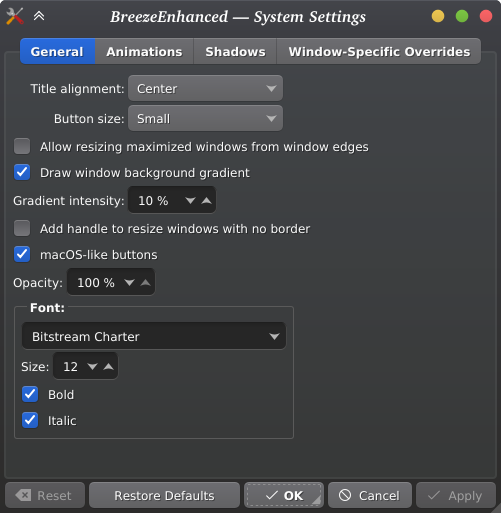
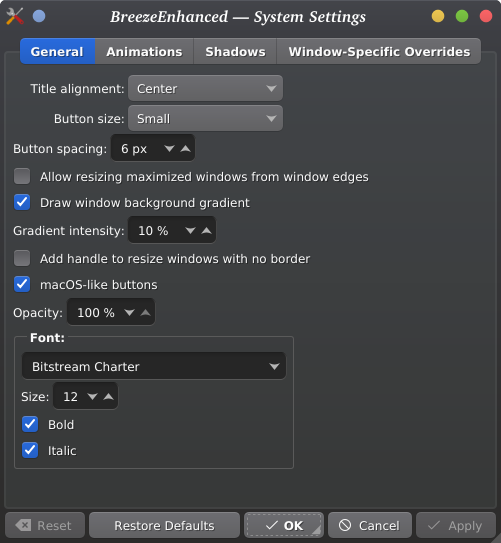
Added setting for button spacing

diff --git a/config/breezeconfigwidget.cpp b/config/breezeconfigwidget.cpp
@@ -48,8 +48,7 @@ namespace Breeze
         // track ui changes
         connect( m_ui.titleAlignment, SIGNAL(currentIndexChanged(int)), SLOT(updateChanged()) );
         connect( m_ui.buttonSize, SIGNAL(currentIndexChanged(int)), SLOT(updateChanged()) );
-        m_ui.outlineCloseButton->hide();
-        connect( m_ui.outlineCloseButton, SIGNAL(clicked()), SLOT(updateChanged()) );
+        connect( m_ui.btnSpacingSpinBox, QOverload<int>::of(&QSpinBox::valueChanged), [=](int /*i*/){updateChanged();} );
         connect( m_ui.drawBorderOnMaximizedWindows, SIGNAL(clicked()), SLOT(updateChanged()) );
         connect( m_ui.drawSizeGrip, SIGNAL(clicked()), SLOT(updateChanged()) );
         connect( m_ui.drawBackgroundGradient, SIGNAL(clicked()), SLOT(updateChanged()) );
@@ -87,8 +86,8 @@ namespace Breeze
         // assign to ui
         m_ui.titleAlignment->setCurrentIndex( m_internalSettings->titleAlignment() );
         m_ui.buttonSize->setCurrentIndex( m_internalSettings->buttonSize() );
+        m_ui.btnSpacingSpinBox->setValue( m_internalSettings->buttonSpacing() );
         m_ui.drawBorderOnMaximizedWindows->setChecked( m_internalSettings->drawBorderOnMaximizedWindows() );
-        m_ui.outlineCloseButton->setChecked( m_internalSettings->outlineCloseButton() );
         m_ui.drawSizeGrip->setChecked( m_internalSettings->drawSizeGrip() );
         m_ui.drawBackgroundGradient->setChecked( m_internalSettings->drawBackgroundGradient() );
         m_ui.animationsEnabled->setChecked( m_internalSettings->animationsEnabled() );
@@ -132,7 +131,7 @@ namespace Breeze
         // apply modifications from ui
         m_internalSettings->setTitleAlignment( m_ui.titleAlignment->currentIndex() );
         m_internalSettings->setButtonSize( m_ui.buttonSize->currentIndex() );
-        m_internalSettings->setOutlineCloseButton( m_ui.outlineCloseButton->isChecked() );
+        m_internalSettings->setButtonSpacing( m_ui.btnSpacingSpinBox->value() );
         m_internalSettings->setDrawBorderOnMaximizedWindows( m_ui.drawBorderOnMaximizedWindows->isChecked() );
         m_internalSettings->setDrawSizeGrip( m_ui.drawSizeGrip->isChecked() );
         m_internalSettings->setDrawBackgroundGradient( m_ui.drawBackgroundGradient->isChecked() );
@@ -188,6 +187,7 @@ namespace Breeze
         // assign to ui
         m_ui.titleAlignment->setCurrentIndex( m_internalSettings->titleAlignment() );
         m_ui.buttonSize->setCurrentIndex( m_internalSettings->buttonSize() );
+        m_ui.btnSpacingSpinBox->setValue( m_internalSettings->buttonSpacing() );
         m_ui.drawBorderOnMaximizedWindows->setChecked( m_internalSettings->drawBorderOnMaximizedWindows() );
         m_ui.drawSizeGrip->setChecked( m_internalSettings->drawSizeGrip() );
         m_ui.drawBackgroundGradient->setChecked( m_internalSettings->drawBackgroundGradient() );
@@ -223,7 +223,7 @@ namespace Breeze
         if (m_ui.macOSButtons->isChecked() != m_internalSettings->macOSButtons()) modified = true;
         if( m_ui.titleAlignment->currentIndex() != m_internalSettings->titleAlignment() ) modified = true;
         else if( m_ui.buttonSize->currentIndex() != m_internalSettings->buttonSize() ) modified = true;
-        else if( m_ui.outlineCloseButton->isChecked() != m_internalSettings->outlineCloseButton() ) modified = true;
+        else if( m_ui.btnSpacingSpinBox->value() != m_internalSettings->buttonSpacing() ) modified = true;
         else if( m_ui.drawBorderOnMaximizedWindows->isChecked() !=  m_internalSettings->drawBorderOnMaximizedWindows() ) modified = true;
         else if( m_ui.drawSizeGrip->isChecked() !=  m_internalSettings->drawSizeGrip() ) modified = true;
         else if( m_ui.drawBackgroundGradient->isChecked() !=  m_internalSettings->drawBackgroundGradient() ) modified = true;

diff --git a/breezedecoration.cpp b/breezedecoration.cpp
@@ -383,8 +383,8 @@ namespace Breeze
         if( !m_leftButtons->buttons().isEmpty() )
         {
 
-            // spacing
-            m_leftButtons->setSpacing(s->smallSpacing()*Metrics::TitleBar_ButtonSpacing);
+            // spacing (use our own spacing instead of s->smallSpacing()*Metrics::TitleBar_ButtonSpacing)
+            m_leftButtons->setSpacing(m_internalSettings->buttonSpacing());
 
             // padding
             const int vPadding = isTopEdge() ? 0 : s->smallSpacing()*Metrics::TitleBar_TopMargin;
@@ -407,8 +407,8 @@ namespace Breeze
         if( !m_rightButtons->buttons().isEmpty() )
         {
 
-            // spacing
-            m_rightButtons->setSpacing(s->smallSpacing()*Metrics::TitleBar_ButtonSpacing);
+            // spacing (use our own spacing instead of s->smallSpacing()*Metrics::TitleBar_ButtonSpacing)
+            m_rightButtons->setSpacing(m_internalSettings->buttonSpacing());
 
             // padding
             const int vPadding = isTopEdge() ? 0 : s->smallSpacing()*Metrics::TitleBar_TopMargin;
